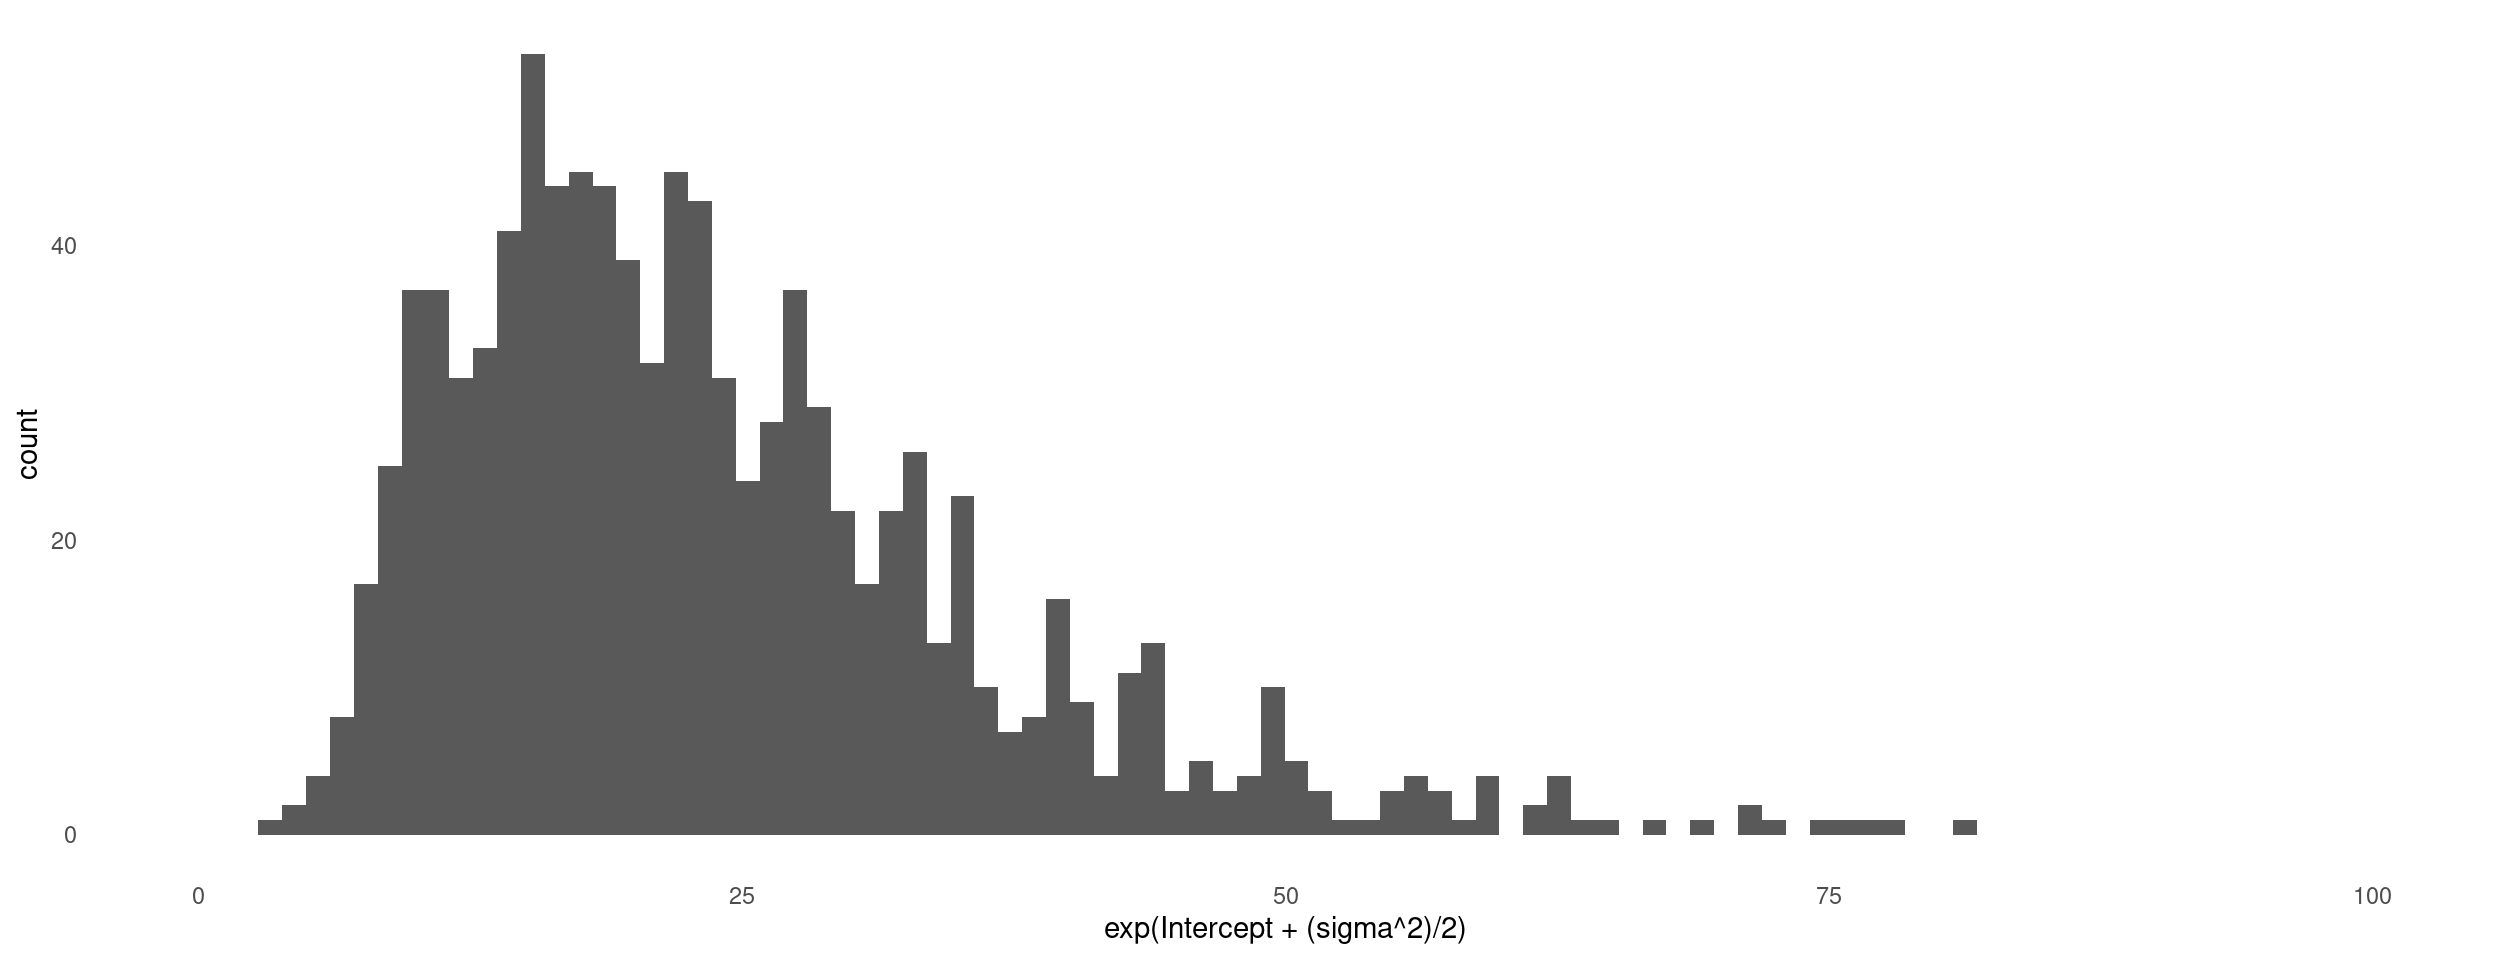
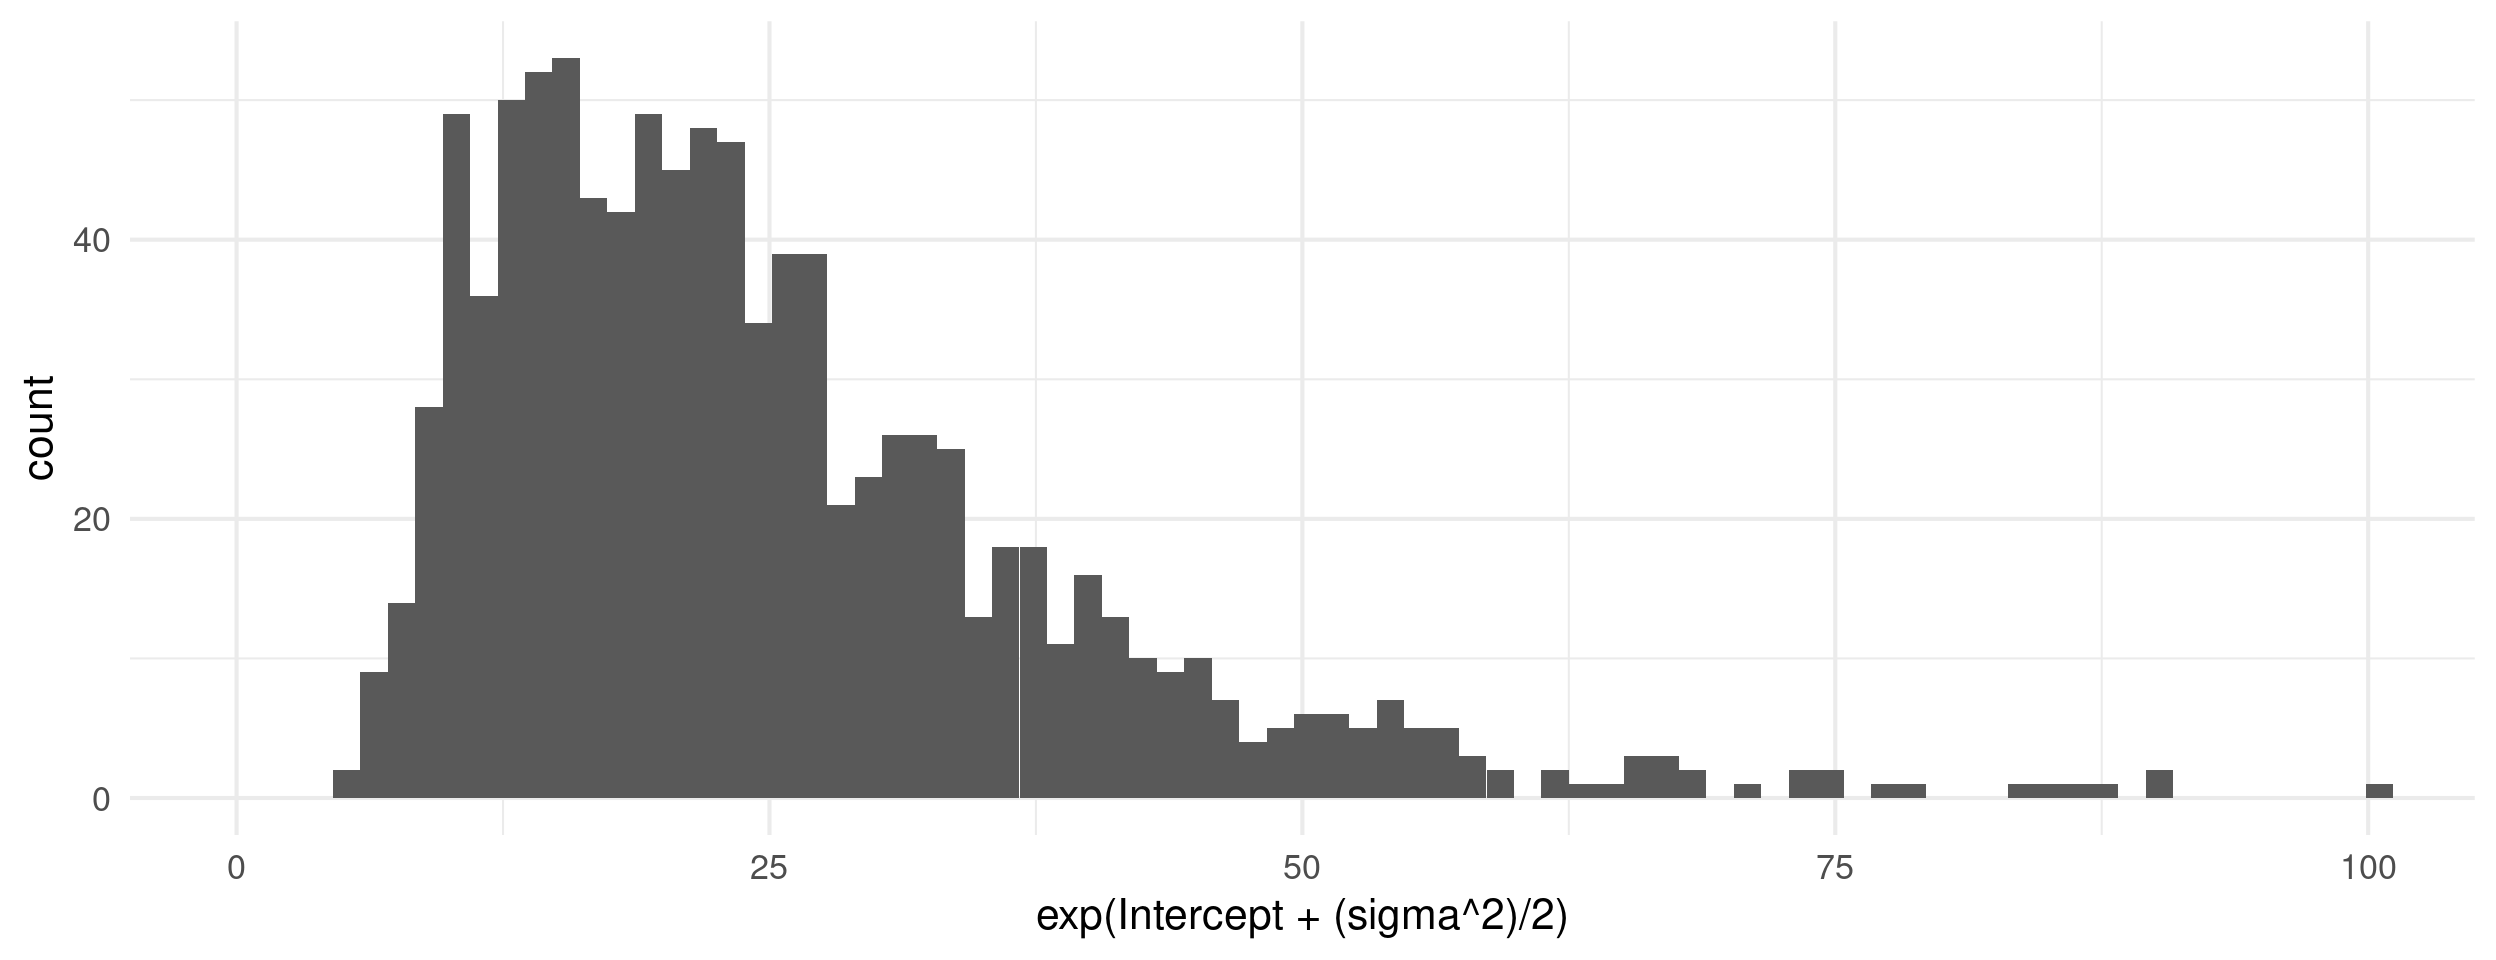
Started the group-level interaction model simulation

diff --git a/blog/hurdle_lognormal_model/hurdle_lognormal_model.html b/blog/hurdle_lognormal_model/hurdle_lognormal_model.html
@@ -82,6 +82,10 @@ pre > code.sourceCode > span > a:first-child::before { text-decoration: underlin
   <ul>
   <li><a href="#introduction" id="toc-introduction" class="nav-link active" data-scroll-target="#introduction">Introduction</a></li>
   <li><a href="#modelling" id="toc-modelling" class="nav-link" data-scroll-target="#modelling">Modelling</a></li>
+  <li><a href="#group-wise-interaction-effect." id="toc-group-wise-interaction-effect." class="nav-link" data-scroll-target="#group-wise-interaction-effect.">Group-Wise Interaction Effect.</a>
+  <ul class="collapse">
+  <li><a href="#ols-model" id="toc-ols-model" class="nav-link" data-scroll-target="#ols-model">OLS Model</a></li>
+  </ul></li>
   </ul>
 </nav>
 </div>
@@ -165,6 +169,134 @@ pre > code.sourceCode > span > a:first-child::before { text-decoration: underlin
 <p><img src="hurdle_lognormal_model_files/figure-html/unnamed-chunk-4-1.png" class="img-fluid" width="1248"></p>
 </div>
 </div>
+<p>Prior Predictive Simulation for the hurdle:</p>
+<div class="cell">
+<div class="sourceCode cell-code" id="cb4"><pre class="sourceCode r code-with-copy"><code class="sourceCode r"><span id="cb4-1"><a href="#cb4-1" aria-hidden="true" tabindex="-1"></a><span class="fu">tibble</span>(</span>
+<span id="cb4-2"><a href="#cb4-2" aria-hidden="true" tabindex="-1"></a>  <span class="at">o =</span> <span class="fu">rnorm</span>(N, <span class="sc">-</span><span class="dv">1</span>, <span class="dv">1</span>),</span>
+<span id="cb4-3"><a href="#cb4-3" aria-hidden="true" tabindex="-1"></a>  <span class="at">probs =</span> <span class="fu">inv_logit_scaled</span>(o)</span>
+<span id="cb4-4"><a href="#cb4-4" aria-hidden="true" tabindex="-1"></a>) <span class="sc">%&gt;%</span> </span>
+<span id="cb4-5"><a href="#cb4-5" aria-hidden="true" tabindex="-1"></a>  <span class="fu">ggplot</span>(<span class="fu">aes</span>(<span class="at">x =</span> probs))<span class="sc">+</span></span>
+<span id="cb4-6"><a href="#cb4-6" aria-hidden="true" tabindex="-1"></a>  <span class="fu">geom_histogram</span>(<span class="at">bins =</span> <span class="dv">100</span>)</span></code><button title="Copy to Clipboard" class="code-copy-button"><i class="bi"></i></button></pre></div>
+<div class="cell-output-display">
+<p><img src="hurdle_lognormal_model_files/figure-html/unnamed-chunk-5-1.png" class="img-fluid" width="1248"></p>
+</div>
+</div>
+<p>Now, let’s look at the model fit.</p>
+<div class="cell">
+<div class="sourceCode cell-code" id="cb5"><pre class="sourceCode r code-with-copy"><code class="sourceCode r"><span id="cb5-1"><a href="#cb5-1" aria-hidden="true" tabindex="-1"></a><span class="fu">posterior_summary</span>(model_1)[<span class="dv">1</span><span class="sc">:</span><span class="dv">3</span>, ] <span class="sc">%&gt;%</span> </span>
+<span id="cb5-2"><a href="#cb5-2" aria-hidden="true" tabindex="-1"></a>  <span class="fu">round</span>(<span class="at">digits =</span> <span class="dv">3</span>)</span></code><button title="Copy to Clipboard" class="code-copy-button"><i class="bi"></i></button></pre></div>
+<div class="cell-output cell-output-stdout">
+<pre><code>               Estimate Est.Error   Q2.5  Q97.5
+b_Intercept       3.469     0.013  3.442  3.495
+b_hu_Intercept   -1.772     0.089 -1.948 -1.599
+sigma             0.397     0.009  0.380  0.416</code></pre>
+</div>
+</div>
+<p>In the original scale.</p>
+<p>The Model for work hours &gt; 0</p>
+<div class="cell">
+<div class="sourceCode cell-code" id="cb7"><pre class="sourceCode r code-with-copy"><code class="sourceCode r"><span id="cb7-1"><a href="#cb7-1" aria-hidden="true" tabindex="-1"></a>wh_posterior_1 <span class="ot">&lt;-</span> <span class="fu">as_draws_df</span>(model_1) <span class="sc">%&gt;%</span> </span>
+<span id="cb7-2"><a href="#cb7-2" aria-hidden="true" tabindex="-1"></a>  <span class="fu">mutate</span>(<span class="at">work_hours =</span> <span class="fu">exp</span>(b_Intercept <span class="sc">+</span> (sigma <span class="sc">^</span><span class="dv">2</span>) <span class="sc">/</span> <span class="dv">2</span>)) <span class="sc">%&gt;%</span> </span>
+<span id="cb7-3"><a href="#cb7-3" aria-hidden="true" tabindex="-1"></a>  <span class="fu">ggplot</span>(<span class="fu">aes</span>(<span class="at">x =</span> work_hours))<span class="sc">+</span></span>
+<span id="cb7-4"><a href="#cb7-4" aria-hidden="true" tabindex="-1"></a>  <span class="fu">geom_density</span>()</span></code><button title="Copy to Clipboard" class="code-copy-button"><i class="bi"></i></button></pre></div>
+</div>
+<p>Model for the hurdle intercept i.e.&nbsp;the probability of zero.</p>
+<div class="cell">
+<div class="sourceCode cell-code" id="cb8"><pre class="sourceCode r code-with-copy"><code class="sourceCode r"><span id="cb8-1"><a href="#cb8-1" aria-hidden="true" tabindex="-1"></a>hu_posterior_1 <span class="ot">&lt;-</span> <span class="fu">as_draws_df</span>(model_1) <span class="sc">%&gt;%</span> </span>
+<span id="cb8-2"><a href="#cb8-2" aria-hidden="true" tabindex="-1"></a>  <span class="fu">mutate</span>(<span class="at">probability  =</span> <span class="fu">inv_logit_scaled</span>(b_hu_Intercept)) <span class="sc">%&gt;%</span> </span>
+<span id="cb8-3"><a href="#cb8-3" aria-hidden="true" tabindex="-1"></a>  <span class="fu">ggplot</span>(<span class="fu">aes</span>(<span class="at">x =</span> probability))<span class="sc">+</span></span>
+<span id="cb8-4"><a href="#cb8-4" aria-hidden="true" tabindex="-1"></a>  <span class="fu">geom_density</span>()</span></code><button title="Copy to Clipboard" class="code-copy-button"><i class="bi"></i></button></pre></div>
+</div>
+<p>Both Figures side by side.</p>
+<div class="cell">
+<div class="sourceCode cell-code" id="cb9"><pre class="sourceCode r code-with-copy"><code class="sourceCode r"><span id="cb9-1"><a href="#cb9-1" aria-hidden="true" tabindex="-1"></a>(wh_posterior_1 <span class="sc">|</span> hu_posterior_1)</span></code><button title="Copy to Clipboard" class="code-copy-button"><i class="bi"></i></button></pre></div>
+<div class="cell-output-display">
+<p><img src="hurdle_lognormal_model_files/figure-html/unnamed-chunk-9-1.png" class="img-fluid" width="1344"></p>
+</div>
+</div>
+</section>
+<section id="group-wise-interaction-effect." class="level1">
+<h1>Group-Wise Interaction Effect.</h1>
+<p>Suppose that average work hours differs by groups, may it be geographical or at different times. Think of a scenario of a treatment and a control, measure before and after certain labor market shock. Let’s assume two neighbouring districts A and B, whereby A experience war at time period t and B didn’t. Let’s assume we have data for A and B before the war occurred, and the data for work hours after the war occurred. Let’s assume the data is repeated cross section data. We can simulate it as follows:</p>
+<div class="cell">
+<div class="sourceCode cell-code" id="cb10"><pre class="sourceCode r code-with-copy"><code class="sourceCode r"><span id="cb10-1"><a href="#cb10-1" aria-hidden="true" tabindex="-1"></a>a_0 <span class="ot">&lt;-</span>  <span class="fl">3.7</span></span>
+<span id="cb10-2"><a href="#cb10-2" aria-hidden="true" tabindex="-1"></a>a_post <span class="ot">&lt;-</span>  <span class="sc">-</span><span class="fl">0.05</span></span>
+<span id="cb10-3"><a href="#cb10-3" aria-hidden="true" tabindex="-1"></a>a_treat <span class="ot">&lt;-</span>  <span class="sc">-</span><span class="fl">0.05</span></span>
+<span id="cb10-4"><a href="#cb10-4" aria-hidden="true" tabindex="-1"></a>a_pt <span class="ot">&lt;-</span> <span class="sc">-</span><span class="fl">0.2</span></span>
+<span id="cb10-5"><a href="#cb10-5" aria-hidden="true" tabindex="-1"></a></span>
+<span id="cb10-6"><a href="#cb10-6" aria-hidden="true" tabindex="-1"></a>g <span class="ot">&lt;-</span> <span class="fu">tibble</span>(</span>
+<span id="cb10-7"><a href="#cb10-7" aria-hidden="true" tabindex="-1"></a>  <span class="at">post =</span> <span class="fu">rep</span>(<span class="fu">c</span>(<span class="dv">0</span>, <span class="dv">1</span>), <span class="at">each =</span> <span class="dv">500</span>), <span class="co"># time period 0 is before and time period 1 is after.</span></span>
+<span id="cb10-8"><a href="#cb10-8" aria-hidden="true" tabindex="-1"></a>  <span class="at">treat =</span> <span class="fu">rep</span>(<span class="fu">c</span>(<span class="dv">0</span>, <span class="dv">1</span>), <span class="at">times =</span> <span class="dv">500</span> ), <span class="co"># 0 is no-war, 1 is war.</span></span>
+<span id="cb10-9"><a href="#cb10-9" aria-hidden="true" tabindex="-1"></a>  <span class="at">isZero =</span> <span class="fu">rbinom</span>(N, <span class="dv">1</span>, <span class="at">prob =</span> <span class="fl">0.1</span> <span class="sc">+</span> <span class="fl">0.07</span> <span class="sc">*</span> post  <span class="sc">+</span>  <span class="co">#0.07 because of temporary immigration</span></span>
+<span id="cb10-10"><a href="#cb10-10" aria-hidden="true" tabindex="-1"></a>                    (<span class="fl">0.03</span>) <span class="sc">*</span> treat <span class="sc">+</span> <span class="fl">0.1</span> <span class="sc">*</span> (post <span class="sc">*</span> treat)),</span>
+<span id="cb10-11"><a href="#cb10-11" aria-hidden="true" tabindex="-1"></a>  </span>
+<span id="cb10-12"><a href="#cb10-12" aria-hidden="true" tabindex="-1"></a>  <span class="at">wh =</span> (<span class="dv">1</span> <span class="sc">-</span> isZero) <span class="sc">*</span> <span class="fu">rlnorm</span>(N, a_0 <span class="sc">+</span> a_post <span class="sc">*</span> post <span class="sc">+</span> </span>
+<span id="cb10-13"><a href="#cb10-13" aria-hidden="true" tabindex="-1"></a>                               a_treat <span class="sc">*</span> treat <span class="sc">+</span> a_pt <span class="sc">*</span> (post <span class="sc">*</span> treat),</span>
+<span id="cb10-14"><a href="#cb10-14" aria-hidden="true" tabindex="-1"></a>                             <span class="at">sdlog =</span> <span class="fl">0.4</span>)</span>
+<span id="cb10-15"><a href="#cb10-15" aria-hidden="true" tabindex="-1"></a>)</span></code><button title="Copy to Clipboard" class="code-copy-button"><i class="bi"></i></button></pre></div>
+</div>
+<p>4 groups:</p>
+<p>1 : Post = 0, Treat = 0 2 : Post = 1, Treat = 1 3 : Post = 0, Treat = 1 4 : Post = 1, Treat = 1</p>
+<div class="cell">
+<div class="sourceCode cell-code" id="cb11"><pre class="sourceCode r code-with-copy"><code class="sourceCode r"><span id="cb11-1"><a href="#cb11-1" aria-hidden="true" tabindex="-1"></a>g <span class="ot">&lt;-</span> g <span class="sc">%&gt;%</span> <span class="fu">mutate</span>(</span>
+<span id="cb11-2"><a href="#cb11-2" aria-hidden="true" tabindex="-1"></a>  <span class="at">group =</span> <span class="fu">factor</span>(<span class="dv">1</span> <span class="sc">+</span> post <span class="sc">+</span> <span class="dv">2</span> <span class="sc">*</span> treat, </span>
+<span id="cb11-3"><a href="#cb11-3" aria-hidden="true" tabindex="-1"></a>                 <span class="at">labels =</span> <span class="fu">c</span>(<span class="st">"Pre-Control"</span>, <span class="st">"Post-Control"</span>,</span>
+<span id="cb11-4"><a href="#cb11-4" aria-hidden="true" tabindex="-1"></a>                            <span class="st">"Pre-Treatment"</span>,<span class="st">"Post-Treatment"</span>))</span>
+<span id="cb11-5"><a href="#cb11-5" aria-hidden="true" tabindex="-1"></a>)</span></code><button title="Copy to Clipboard" class="code-copy-button"><i class="bi"></i></button></pre></div>
+</div>
+<p>Let’s look at what we simulated:</p>
+<div class="cell">
+<div class="sourceCode cell-code" id="cb12"><pre class="sourceCode r code-with-copy"><code class="sourceCode r"><span id="cb12-1"><a href="#cb12-1" aria-hidden="true" tabindex="-1"></a>g <span class="sc">%&gt;%</span> </span>
+<span id="cb12-2"><a href="#cb12-2" aria-hidden="true" tabindex="-1"></a>  <span class="fu">group_by</span>(group) <span class="sc">%&gt;%</span> </span>
+<span id="cb12-3"><a href="#cb12-3" aria-hidden="true" tabindex="-1"></a>  <span class="fu">summarize</span>(<span class="at">avg_wh =</span> <span class="fu">mean</span>(wh)) <span class="sc">%&gt;%</span> </span>
+<span id="cb12-4"><a href="#cb12-4" aria-hidden="true" tabindex="-1"></a>  <span class="fu">ggplot</span>(<span class="fu">aes</span>(<span class="at">x =</span> group, <span class="at">y =</span> avg_wh))<span class="sc">+</span></span>
+<span id="cb12-5"><a href="#cb12-5" aria-hidden="true" tabindex="-1"></a>  <span class="fu">geom_linerange</span>(<span class="fu">aes</span>(<span class="at">ymin =</span> <span class="dv">0</span>, <span class="at">ymax =</span> avg_wh),<span class="at">color =</span> <span class="st">"black"</span>,</span>
+<span id="cb12-6"><a href="#cb12-6" aria-hidden="true" tabindex="-1"></a>           <span class="at">linewidth =</span> <span class="dv">1</span>)</span></code><button title="Copy to Clipboard" class="code-copy-button"><i class="bi"></i></button></pre></div>
+<div class="cell-output-display">
+<p><img src="hurdle_lognormal_model_files/figure-html/unnamed-chunk-12-1.png" class="img-fluid" width="672"></p>
+</div>
+<div class="sourceCode cell-code" id="cb13"><pre class="sourceCode r code-with-copy"><code class="sourceCode r"><span id="cb13-1"><a href="#cb13-1" aria-hidden="true" tabindex="-1"></a>g <span class="sc">%&gt;%</span> </span>
+<span id="cb13-2"><a href="#cb13-2" aria-hidden="true" tabindex="-1"></a>  <span class="fu">group_by</span>(group) <span class="sc">%&gt;%</span> </span>
+<span id="cb13-3"><a href="#cb13-3" aria-hidden="true" tabindex="-1"></a>  <span class="fu">summarize</span>(<span class="at">avg_isZero =</span> <span class="fu">mean</span>(isZero)) <span class="sc">%&gt;%</span> </span>
+<span id="cb13-4"><a href="#cb13-4" aria-hidden="true" tabindex="-1"></a>  <span class="fu">ggplot</span>(<span class="fu">aes</span>(<span class="at">x =</span> group, <span class="at">y =</span> avg_isZero))<span class="sc">+</span></span>
+<span id="cb13-5"><a href="#cb13-5" aria-hidden="true" tabindex="-1"></a>  <span class="fu">geom_linerange</span>(<span class="fu">aes</span>(<span class="at">ymin =</span> <span class="dv">0</span>, <span class="at">ymax =</span> avg_isZero),<span class="at">color =</span> <span class="st">"black"</span>,</span>
+<span id="cb13-6"><a href="#cb13-6" aria-hidden="true" tabindex="-1"></a>           <span class="at">linewidth =</span> <span class="dv">1</span>)</span></code><button title="Copy to Clipboard" class="code-copy-button"><i class="bi"></i></button></pre></div>
+<div class="cell-output-display">
+<p><img src="hurdle_lognormal_model_files/figure-html/unnamed-chunk-12-2.png" class="img-fluid" width="672"></p>
+</div>
+</div>
+<section id="ols-model" class="level2">
+<h2 class="anchored" data-anchor-id="ols-model">OLS Model</h2>
+<div class="cell">
+<div class="sourceCode cell-code" id="cb14"><pre class="sourceCode r code-with-copy"><code class="sourceCode r"><span id="cb14-1"><a href="#cb14-1" aria-hidden="true" tabindex="-1"></a><span class="co"># A normal OLS model.</span></span>
+<span id="cb14-2"><a href="#cb14-2" aria-hidden="true" tabindex="-1"></a></span>
+<span id="cb14-3"><a href="#cb14-3" aria-hidden="true" tabindex="-1"></a>ols_group <span class="ot">&lt;-</span> <span class="fu">lm</span>(wh <span class="sc">~</span> <span class="dv">0</span> <span class="sc">+</span> group, <span class="at">data =</span> g)</span>
+<span id="cb14-4"><a href="#cb14-4" aria-hidden="true" tabindex="-1"></a><span class="fu">summary</span>(ols_group)</span></code><button title="Copy to Clipboard" class="code-copy-button"><i class="bi"></i></button></pre></div>
+<div class="cell-output cell-output-stdout">
+<pre><code>
+Call:
+lm(formula = wh ~ 0 + group, data = g)
+
+Residuals:
+    Min      1Q  Median      3Q     Max 
+-40.551 -12.019   0.033  11.217 106.025 
+
+Coefficients:
+                    Estimate Std. Error t value Pr(&gt;|t|)    
+groupPre-Control      40.551      1.314   30.86   &lt;2e-16 ***
+groupPost-Control     35.173      1.314   26.77   &lt;2e-16 ***
+groupPre-Treatment    38.717      1.314   29.47   &lt;2e-16 ***
+groupPost-Treatment   23.997      1.314   18.26   &lt;2e-16 ***
+---
+Signif. codes:  0 '***' 0.001 '**' 0.01 '*' 0.05 '.' 0.1 ' ' 1
+
+Residual standard error: 20.77 on 996 degrees of freedom
+Multiple R-squared:  0.7424,    Adjusted R-squared:  0.7414 
+F-statistic: 717.8 on 4 and 996 DF,  p-value: &lt; 2.2e-16</code></pre>
+</div>
+</div>
+<p>Because the mean also counts and includes zeros, everything is muddled in. It’s fine here where we can see that after the war, the war-trodden district both had lower work hours and more unemployment, but in cases where these two phenomena have different causes, or if war affects people in different ways, this analysis may lead us astray.</p>
+</section>
 </section>
 
 </main>
